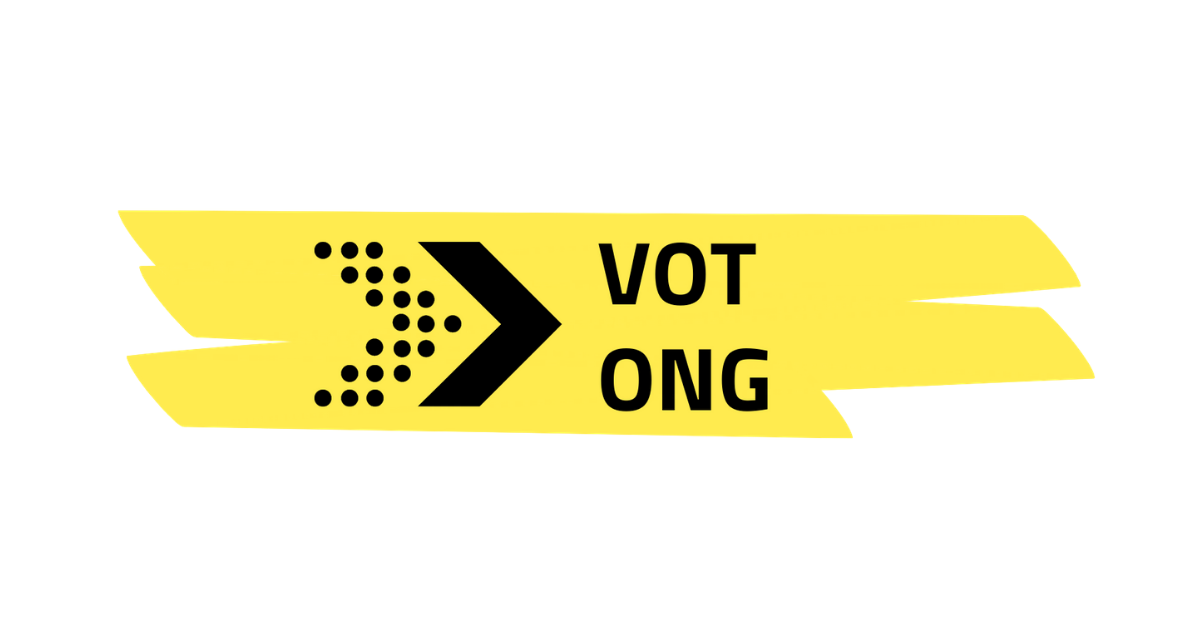
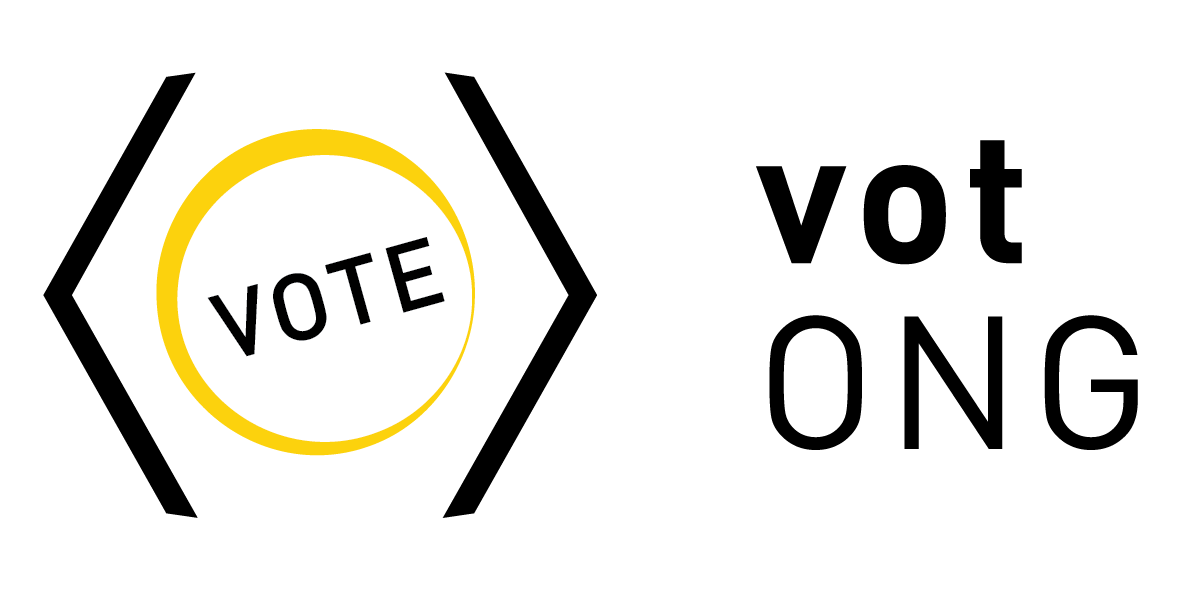
Update header & footer branding

diff --git a/backend/hub/templates/footer.html b/backend/hub/templates/footer.html
@@ -2,54 +2,57 @@
 {% load i18n %}
 
 <footer>
-    <div class="container">
-        <div class="columns mr-0">
-            <div class="column is-auto">
-                <div class="branding">
-                    <div class="mb-3">
-                        O soluție 
-                    </div>
+  <div class="container">
+    <div class="columns mr-0">
+      <div class="column is-auto">
+        <div class="branding">
+          <div class="mb-3">
+            O soluție
+          </div>
 
-                    <a href="https://code4.ro/ro/" target="_blank" rel="noopener noreferrer" class="mb-3">
-                        <img class="code4Ro-logo" src="{% static "images/code4romania-black.svg" %}" alt="Code for Romania" />
-                    </a>
+          <a href="https://code4.ro/ro/" target="_blank" rel="noopener noreferrer" class="mb-3">
+            <img
+              class="code_commit-logo"
+              src="{% static "images/commit_code-bw.svg" %}"
+              alt="Code for Romania | Commit Global"/>
+          </a>
 
-                    <div class="mb-5 has-text-left">
-                        Organizație independentă, non-partizană, apolitică, neguvernamentală.
-                    </div>
+          <div class="mb-5 has-text-left">
+            Organizație independentă, non-partizană, apolitică, neguvernamentală.
+          </div>
 
-                    <div>
-                        &copy; 2022 Code for Romania.
-                    </div>
-                </div>
-            </div>
-
-            <div class="column is-3 mobile-spacing">
-                <h4 class="pb-3">
-                    <strong>{% trans "USEFUL LINKS" %}</strong>
-                </h4>
-                <ul id="footer-links">
-                    <li><a href="{% url 'about' %}">{% trans "About VotONG" %}</a></li>
-                    <li><a href="{% url 'platform_rules' %}">{% trans "Platform rules" %}</a></li>
-                    <li><a href="{% url 'cookies'%}">{% trans "Privacy Policy" %}</a></li>
-                    <li><a href="{% url 'terms'%}">{% trans "Terms and conditions" %}</a></li>
-                    <li><a href="{% url 'login'%}">{% trans "Commission Sign In" %}</a></li>
-                </ul>
-            </div>
-
-            <div class="column is-3 mobile-spacing">
-                <h4 class="pb-3">
-                    <strong>{% trans "CONTACT US" %}</strong>
-                </h4>
-                <ul id="footer-links">
-                    <li><a href="https://www.facebook.com/code4romania/">Facebook</a>
-                    <li><a href="https://twitter.com/Code4Romania">Twitter</a>
-                    <li><a href="https://github.com/code4romania/votong/">GitHub</a>
-                    <li><a href="https://www.linkedin.com/company/code4romania/">LinkedIn</a>
-                </ul>
-            </div>
+          <div>
+            &copy; 2024 Commit Global.
+          </div>
         </div>
+      </div>
+
+      <div class="column is-3 mobile-spacing">
+        <h4 class="pb-3">
+          <strong>{% trans "USEFUL LINKS" %}</strong>
+        </h4>
+        <ul id="footer-links">
+          <li><a href="{% url 'about' %}">{% trans "About VotONG" %}</a></li>
+          <li><a href="{% url 'platform_rules' %}">{% trans "Platform rules" %}</a></li>
+          <li><a href="{% url 'cookies' %}">{% trans "Privacy Policy" %}</a></li>
+          <li><a href="{% url 'terms' %}">{% trans "Terms and conditions" %}</a></li>
+          <li><a href="{% url 'login' %}">{% trans "Commission Sign In" %}</a></li>
+        </ul>
+      </div>
+
+      <div class="column is-3 mobile-spacing">
+        <h4 class="pb-3">
+          <strong>{% trans "CONTACT US" %}</strong>
+        </h4>
+        <ul id="footer-links">
+          <li><a href="https://www.facebook.com/code4romania/">Facebook</a>
+          <li><a href="https://twitter.com/Code4Romania">Twitter</a>
+          <li><a href="https://github.com/code4romania/votong/">GitHub</a>
+          <li><a href="https://www.linkedin.com/company/code4romania/">LinkedIn</a>
+        </ul>
+      </div>
     </div>
+  </div>
 </footer>
 
 {% block extra-footer %}

diff --git a/backend/static_extras/css/footer.css b/backend/static_extras/css/footer.css
@@ -25,7 +25,7 @@ footer .branding {
     margin-right: auto;
 }
 
-@media screen and (max-width: 768px){
+@media screen and (max-width: 768px) {
     footer .mobile-spacing {
         margin-top: 32px;
     }
@@ -36,13 +36,13 @@ footer .branding a {
     margin-top: 5px;
 }
 
-footer .branding .code4Ro-logo {
+footer .branding .code_commit-logo {
     height: 45px;
 }
 
 #footer-links {
-  display: flex;
-  flex-direction: column;
+    display: flex;
+    flex-direction: column;
 }
 
 #footer-links li a:not(.button) {
@@ -55,14 +55,14 @@ footer .branding .code4Ro-logo {
     padding-bottom: 5px;
 }
 
-@media (max-width: 768px){
-  #footer-links {
-    flex-direction: column;
-  }
+@media (max-width: 768px) {
+    #footer-links {
+        flex-direction: column;
+    }
 
-  #footer-links li {
-    padding: 10px;
-  }
+    #footer-links li {
+        padding: 10px;
+    }
 }
 
 

diff --git a/backend/hub/templates/header.html b/backend/hub/templates/header.html
@@ -38,7 +38,7 @@
       <nav class="navbar" role="navigation" aria-label="main navigation">
         <div class="navbar-brand">
           <a class="navbar-item" href="{% url 'home' %}">
-            <img src="{% static "images/votong_by_c4ro.svg" %}" alt="VotONG logo" width="200">
+            <img src="{% static "images/logo.svg" %}" alt="VotONG logo" width="100">
           </a>
 
           <a role="button" class="navbar-burger burger" aria-label="menu" aria-expanded="false"
@@ -83,7 +83,7 @@
                         </a> -->
 
             <!-- <a href="{% url 'rules' %}" class="navbar-item">
-                            {% trans "Metodology" %}
+                            {% trans "Methodology" %}
                         </a> -->
 
             <div class="navbar-item">|</div>
